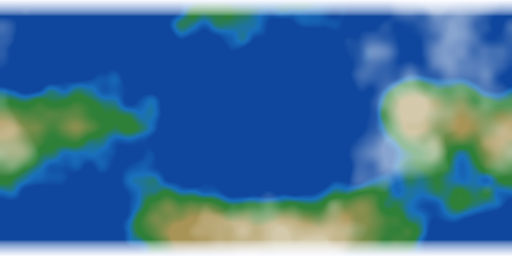
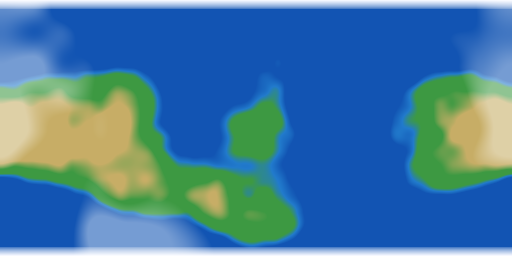
fix: planets now match the colour slot they are matched on
Two of the five textures were the wrong hue for their socket. Uranus shipped
as true pale cyan and Neptune as true indigo, and both sat close enough to
AZURE that the board carried three blue-ish balls a player could not reliably
tell apart while their sockets stayed obviously different. Colour is the only
channel the puzzle is matched on, so this read as unfair rather than hard.
Uranus is pulled green toward MINT, Neptune purple toward VIOLET.

Earth's continents were landing on the poles, leaving the visible face empty
navy. The sea-level percentile was taken over the whole equirectangular map,
where polar rows carry as many pixels as the equator despite covering almost
no sphere area, so the poles won it. Land is now pushed into the tropics and
sea level measured only from that band.

Uranus was a 1 KB near-flat fill. Rendering its real featurelessness honestly
gave a plain disc that read as a missing asset at the 54px a ball actually is.

Balls that were home clipped to white: key+fill of 1.8 against a full-white
albedo blew the texture out, so the balls that mattered most were the least
readable. Lights eased and correct-state albedo kept under white.

_material.specular is a Godot 3 name that 4.x only warns about, so it was
silently doing nothing once per ball.

gen_planets.py now fails on three measures rather than trusting the eye:
contrast at ball size, chroma, and hue drift from the socket tint. Hue is
[…]

diff --git a/tools/gen_planets.py b/tools/gen_planets.py
@@ -10,7 +10,21 @@ large a ball actually is on an 8x8 board.
 
 Textures are 512x256 and wrap horizontally, so they map onto a sphere without
 a visible seam.
+
+THE SIZE RULE. A ball is about 54px on an 8x8 board. The first version of this
+file was written for realism at 512px and never checked at 54, and three of the
+five bodies collapsed to flat discs — Uranus rendered as a plain cyan circle
+that read as a missing texture, and Earth's continents landed on the poles so
+the visible face was empty navy. Only Jupiter survived, because bold horizontal
+bands with real light/dark contrast are the one thing that downsamples.
+
+So: features must be LARGE, HIGH-CONTRAST and mostly HORIZONTAL, and they must
+sit near the equator, which is the part of the sphere facing the camera. Where
+that fights the real planet, the game wins — a puzzle piece has to be legible
+first. Run this file's __main__ to print the small-size contrast of each body;
+anything under ~0.10 is a flat disc no matter how good the 512px art looks.
 """
+import colorsys
 import math
 from pathlib import Path
 
@@ -70,31 +84,44 @@ def polar_caps(img, extent=0.86, colour=(0.96, 0.97, 1.0)):
 # ------------------------------------------------------------------ bodies --
 
 def earth():
-    """Ocean blue with real landmass shapes and a thin cloud layer."""
+    """Ocean blue with big equatorial continents and a thin cloud layer."""
     img = np.zeros((H, W, 3))
-    img[:] = (0.06, 0.28, 0.62)                       # deep ocean
-    land = noise((H, W), 2.5, seed=11, octaves=5)
-    # Squeeze toward the equator so continents are not smeared over the poles.
-    land = land - np.abs(latitude()) * 0.12
+    img[:] = (0.07, 0.33, 0.70)                       # deep ocean
+    # Big enough to survive downsampling, but not so big that the whole face is
+    # one continent: at cells=1.6 this produced a single green wedge with
+    # straight edges that read as a cut-out shape rather than land.
+    land = noise((H, W), 2.2, seed=11, octaves=5)
+    lat = latitude()
 
-    # Thresholds are percentiles, not fixed values: the noise range shifts with
-    # seed and octave count, and hard-coded cut-offs produced a world that was
-    # all ocean. This pins land coverage at roughly a third, like the real one.
-    sea_level = np.percentile(land, 66)
-    inland = np.percentile(land, 80)
+    # The old penalty here was abs(lat) * 0.12, far too weak against noise in
+    # [0, 1] — and worse, the percentile was taken over the whole map, where
+    # polar rows carry as many pixels as the equator despite covering almost no
+    # sphere area. The poles duly won and the face of the ball came out empty.
+    # Push land hard into the tropics and mid-latitudes, and take the sea level
+    # only from that band.
+    # Quadratic falloff rather than a clipped ramp: the ramp's shoulder left a
+    # green stripe running along one latitude, which looked like a painted band.
+    land = land - (np.abs(lat) ** 2) * 0.55
+    band = np.abs(lat) < 0.60
+
+    sea_level = np.percentile(land[band], 52)         # ~35% land on the face
+    inland = np.percentile(land[band], 74)
     span = max(land.max() - sea_level, 1e-6)
 
-    shelf = np.clip((land - (sea_level - span * 0.10)) / (span * 0.10), 0, 1)
-    img = blend(img, (0.10, 0.44, 0.74), shelf)       # shallow water
-    green = np.clip((land - sea_level) / (span * 0.12), 0, 1)
-    img = blend(img, (0.18, 0.50, 0.22), green)       # vegetation
-    arid = np.clip((land - inland) / (span * 0.30), 0, 1)
-    img = blend(img, (0.66, 0.58, 0.34), arid)        # desert / rock
+    shelf = np.clip((land - (sea_level - span * 0.12)) / (span * 0.12), 0, 1)
+    img = blend(img, (0.13, 0.48, 0.80), shelf)       # shallow water
+    # Crisp, but not a hard edge — 0.05 of span gave coastlines that looked
+    # laser-cut. This keeps them readable with a pixel or two of falloff.
+    green = np.clip((land - sea_level) / (span * 0.10), 0, 1)
+    img = blend(img, (0.24, 0.60, 0.26), green)       # vegetation
+    arid = np.clip((land - inland) / (span * 0.22), 0, 1)
+    img = blend(img, (0.78, 0.68, 0.40), arid)        # desert / rock
 
-    img = polar_caps(img, 0.88)
-    cloud = noise((H, W), 5, seed=27, octaves=4)
+    # Small caps: a wide one eats the top of the disc and reads as glare.
+    img = polar_caps(img, 0.93)
+    cloud = noise((H, W), 4, seed=27, octaves=3)
     img = blend(img, (1.0, 1.0, 1.0),
-                np.clip((cloud - np.percentile(cloud, 72)) / 0.16, 0, 1) * 0.50)
+                np.clip((cloud - np.percentile(cloud, 80)) / 0.12, 0, 1) * 0.42)
     return img
 
 
@@ -128,30 +155,64 @@ def jupiter():
 
 
 def uranus():
-    """Almost featureless pale cyan — its real character is its blankness."""
+    """Pale cyan, banded well past the real planet's contrast.
+
+    Uranus really is nearly featureless, and rendering that honestly is what
+    produced a 1 KB texture that looked like a missing asset on the board. The
+    hue is what identifies the slot; the banding is what stops it reading as an
+    untextured sphere. Realism loses this one.
+    """
     lat = latitude()
+    turb = (noise((H, W), 3, seed=23, octaves=3) - 0.5) * 0.16
+    bands = np.sin((lat + turb) * math.pi * 4.5) * 0.5 + 0.5
+
     img = np.zeros((H, W, 3))
-    base = np.array((0.55, 0.85, 0.88))
-    img[:] = base
-    faint = np.sin(lat * math.pi * 3.0) * 0.5 + 0.5
-    img = blend(img, (0.44, 0.78, 0.83), faint * 0.22)
+    # Pulled green, toward the MINT socket tint. Real Uranus is a pure pale
+    # cyan, which sat close enough to AZURE that the two balls were hard to
+    # tell apart on the board while their sockets stayed obviously different.
+    light = np.array((0.52, 0.95, 0.88))
+    dark = np.array((0.16, 0.68, 0.62))
+    mix = bands[..., None]
+    img[:] = light * mix + dark * (1 - mix)
+
+    # The bright polar hood Voyager saw, kept narrow so it frames rather than
+    # floods the disc.
+    hood = np.clip((np.abs(lat) - 0.74) / 0.26, 0, 1)
+    img = blend(img, (0.70, 0.97, 0.90), hood * 0.55)
     return img
 
 
 def neptune():
     """Deep indigo with a dark storm, kept violet enough to read as its slot."""
     lat = latitude()
-    img = np.zeros((H, W, 3))
-    img[:] = (0.30, 0.30, 0.72)
-    turb = (noise((H, W), 4, seed=41, octaves=3) - 0.5) * 0.22
+    turb = (noise((H, W), 3.5, seed=41, octaves=3) - 0.5) * 0.20
     bands = np.sin((lat + turb) * math.pi * 4.0) * 0.5 + 0.5
-    img = blend(img, (0.18, 0.16, 0.54), bands * 0.60)
+
+    # Built as a light/dark mix like Jupiter rather than a dark wash over a
+    # flat base, which is what left the old one a featureless purple disc.
+    img = np.zeros((H, W, 3))
+    # Pushed off blue and into purple, toward the VIOLET socket tint. Neptune's
+    # true indigo landed right on top of AZURE, so the board had two blue balls
+    # and the colour match — the entire puzzle — became guesswork.
+    light = np.array((0.64, 0.44, 0.96))
+    dark = np.array((0.30, 0.14, 0.60))
+    mix = bands[..., None]
+    img[:] = light * mix + dark * (1 - mix)
 
     yy, xx = np.mgrid[0:H, 0:W]
-    spot = (((xx - W * 0.35) / (W * 0.10)) ** 2 + ((yy - H * 0.42) / (H * 0.075)) ** 2)
-    img = blend(img, (0.10, 0.09, 0.34), np.clip(1.0 - spot, 0, 1) ** 0.45)
-    streak = noise((H, W), 6, seed=31, octaves=3)
-    img = blend(img, (0.62, 0.62, 0.92), np.clip((streak - 0.68) / 0.18, 0, 1) * 0.35)
+    spot = (((xx - W * 0.35) / (W * 0.11)) ** 2 + ((yy - H * 0.44) / (H * 0.085)) ** 2)
+    img = blend(img, (0.16, 0.07, 0.36), np.clip(1.0 - spot, 0, 1) ** 0.45)
+
+    # Bright methane cloud streaks. Absolute cut-offs put these below the noise
+    # floor before, so nothing showed; percentiles pin how much is visible.
+    # Kept to a few wisps: at the 80th percentile and 0.75 opacity they covered
+    # half the disc and the ball stopped reading as violet at all, which breaks
+    # the only thing the player actually matches on.
+    # Finer noise (5 -> 8 cells) so these break into several wisps instead of
+    # one broad patch sitting on one side of the disc.
+    streak = noise((H, W), 8, seed=31, octaves=3) - np.abs(lat) * 0.15
+    img = blend(img, (0.88, 0.90, 1.0),
+                np.clip((streak - np.percentile(streak, 93)) / 0.06, 0, 1) * 0.50)
     return img
 
 
@@ -165,10 +226,107 @@ PLANETS = [
 ]
 
 
+## A ball is ~54px in game. Sample the equatorial third of the texture at that
+## width and measure how much luminance variation is left: this is the number
+## that decides whether a body reads as a planet or as a coloured disc.
+BALL_PX = 54
+FLAT = 0.10
+
+
+## Colour is what the player matches on, so a body must stay unmistakably its
+## slot's hue. Chasing contrast is what breaks this: Neptune's cloud streaks,
+## turned up until they were visible, covered half the disc in white and the
+## ball stopped reading as violet. Mean chroma over the visible face is the
+## cheap proxy — it falls as a texture washes toward white or grey.
+MIN_CHROMA = 0.18
+
+## Ball.PALETTE, which tints the socket a ball has to reach. The planet and its
+## socket must read as the same colour: they are the two halves of the match.
+## Uranus and Neptune shipped at their true hues — pale cyan and indigo — and
+## both drifted into AZURE's blue, so the board carried three balls a player
+## could not reliably tell apart while their sockets stayed distinct.
+SLOT_HUE = {
+    "coral_mars": (1.00, 0.35, 0.42),
+    "mint_uranus": (0.24, 0.85, 0.70),
+    "azure_earth": (0.34, 0.60, 1.00),
+    "amber_jupiter": (1.00, 0.76, 0.24),
+    "violet_neptune": (0.72, 0.45, 1.00),
+}
+MAX_HUE_DRIFT = 30.0  # degrees
+
+
+def _hue(rgb):
+    return colorsys.rgb_to_hsv(*rgb)[0] * 360.0
+
+
+def hue_drift(img, name):
+    """Degrees between the texture's DOMINANT hue and its socket tint.
+
+    Dominant, not mean: Earth's continents drag an average toward green by ~38
+    degrees while the ball still plainly reads as blue, and a mean would have
+    demanded that the land be bleached out to satisfy a number. The histogram
+    peak is what the eye actually calls the colour. Near-grey pixels are
+    excluded because their hue is noise.
+    """
+    face = np.clip(img[int(H * 0.33):int(H * 0.67), :], 0, 1).reshape(-1, 3)
+    chroma = face.max(axis=1) - face.min(axis=1)
+    face = face[chroma > 0.08]
+    if len(face) == 0:
+        return 180.0
+
+    mx = face.max(axis=1); mn = face.min(axis=1); span = mx - mn
+    r, g, b = face[:, 0], face[:, 1], face[:, 2]
+    hue = np.where(
+        mx == r, (g - b) / span % 6,
+        np.where(mx == g, (b - r) / span + 2, (r - g) / span + 4),
+    ) * 60.0
+
+    counts, edges = np.histogram(hue % 360.0, bins=36, range=(0, 360))
+    peak = (edges[counts.argmax()] + edges[counts.argmax() + 1]) / 2
+    delta = abs(peak - _hue(SLOT_HUE[name]))
+    return min(delta, 360.0 - delta)
+
+
+def face_chroma(img):
+    face = np.clip(img[int(H * 0.33):int(H * 0.67), :], 0, 1)
+    return float((face.max(axis=2) - face.min(axis=2)).mean())
+
+
+def small_contrast(img):
+    face = img[int(H * 0.33):int(H * 0.67), :]
+    thumb = Image.fromarray((np.clip(face, 0, 1) * 255).astype(np.uint8), "RGB")
+    thumb = thumb.resize((BALL_PX, BALL_PX // 2), Image.LANCZOS)
+    lum = np.asarray(thumb).astype(float).mean(axis=2) / 255.0
+    return float(lum.max() - lum.min())
+
+
 if __name__ == "__main__":
     OUT.mkdir(parents=True, exist_ok=True)
+    problems = []
     for name, fn in PLANETS:
         img = np.clip(fn(), 0, 1)
         path = OUT / f"{name}.png"
         Image.fromarray((img * 255 + 0.5).astype(np.uint8), "RGB").save(path)
-        print(f"  {name:<16} {W}x{H}  {path.stat().st_size / 1024:6.1f} KB")
+
+        contrast = small_contrast(img)
+        chroma = face_chroma(img)
+        drift = hue_drift(img, name)
+        marks = []
+        if contrast < FLAT:
+            marks.append("FLAT")
+            problems.append(f"{name}: flat at ball size (contrast {contrast:.3f})")
+        if chroma < MIN_CHROMA:
+            marks.append("WASHED")
+            problems.append(f"{name}: washed out of its colour slot (chroma {chroma:.3f})")
+        if drift > MAX_HUE_DRIFT:
+            marks.append("OFF-HUE")
+            problems.append(f"{name}: {drift:.0f} deg from its socket tint")
+
+        print(f"  {name:<16} {path.stat().st_size / 1024:6.1f} KB"
+              f"  contrast {contrast:.3f}  chroma {chroma:.3f}"
+              f"  hue drift {drift:4.0f} deg  {' '.join(marks)}")
+
+    if problems:
+        raise SystemExit("\n" + "\n".join(problems) + "\n"
+                         "features must be large, horizontal and high-contrast "
+                         "WITHOUT diluting the slot hue")
